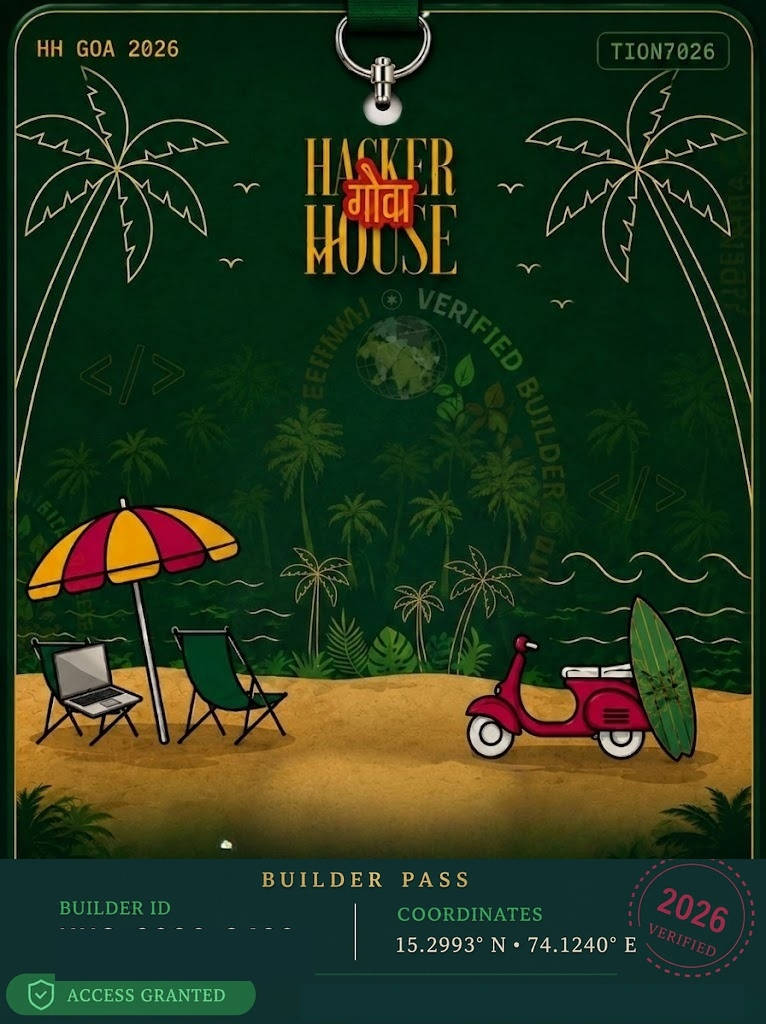
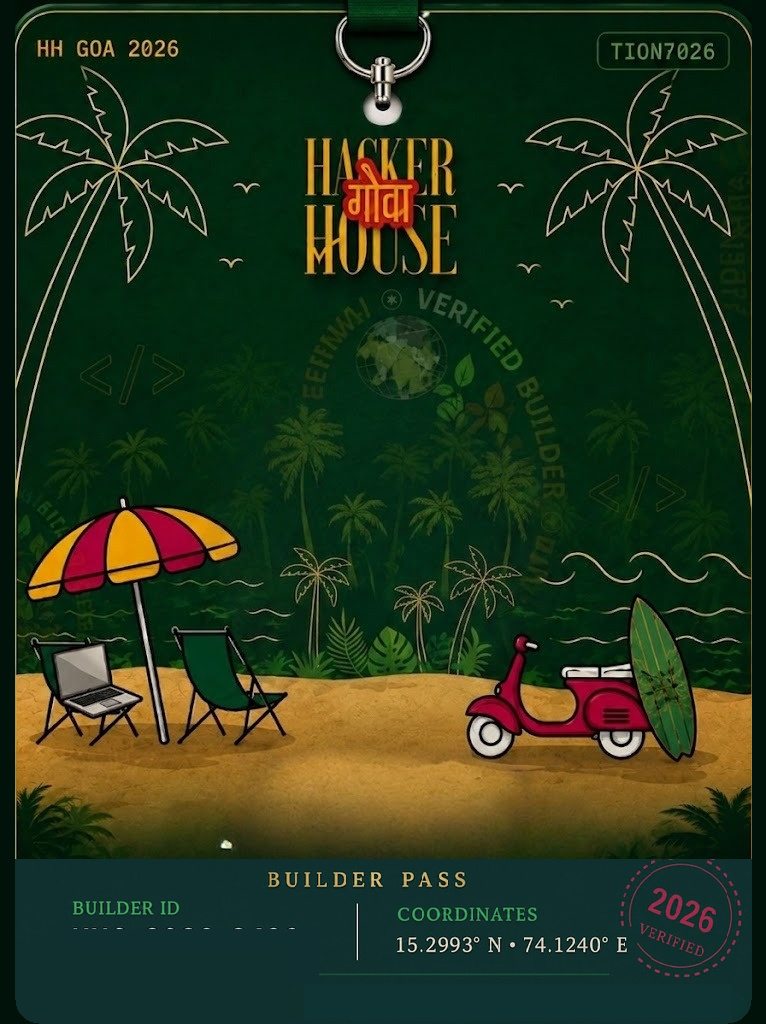
Subhojit

diff --git a/index.html b/index.html
@@ -222,8 +222,8 @@
           <!-- OFFICIAL BUILDER PASS CARD DESIGN (New Approved Template 766x1024) -->
           <div id="idCard" class="id-card preview-element">
             
-            <!-- Layer 1: Base Artwork Template (Contains hook, logo, palms, beach art, borders, Builder Pass section, coordinates, verified stamp, access granted pill) -->
-            <img src="template.png?v=20260812_bottomref_v9" alt="HH Goa Builder Pass Background" class="template-bg-img">
+            <!-- Layer 1: Base Artwork Template (Contains hook, logo, palms, beach art, borders, Builder Pass section, coordinates, verified stamp) -->
+            <img src="template.png?v=20260812_final_v12" alt="HH Goa Builder Pass Background" class="template-bg-img">
 
             <div class="card-overlay-content">
               
